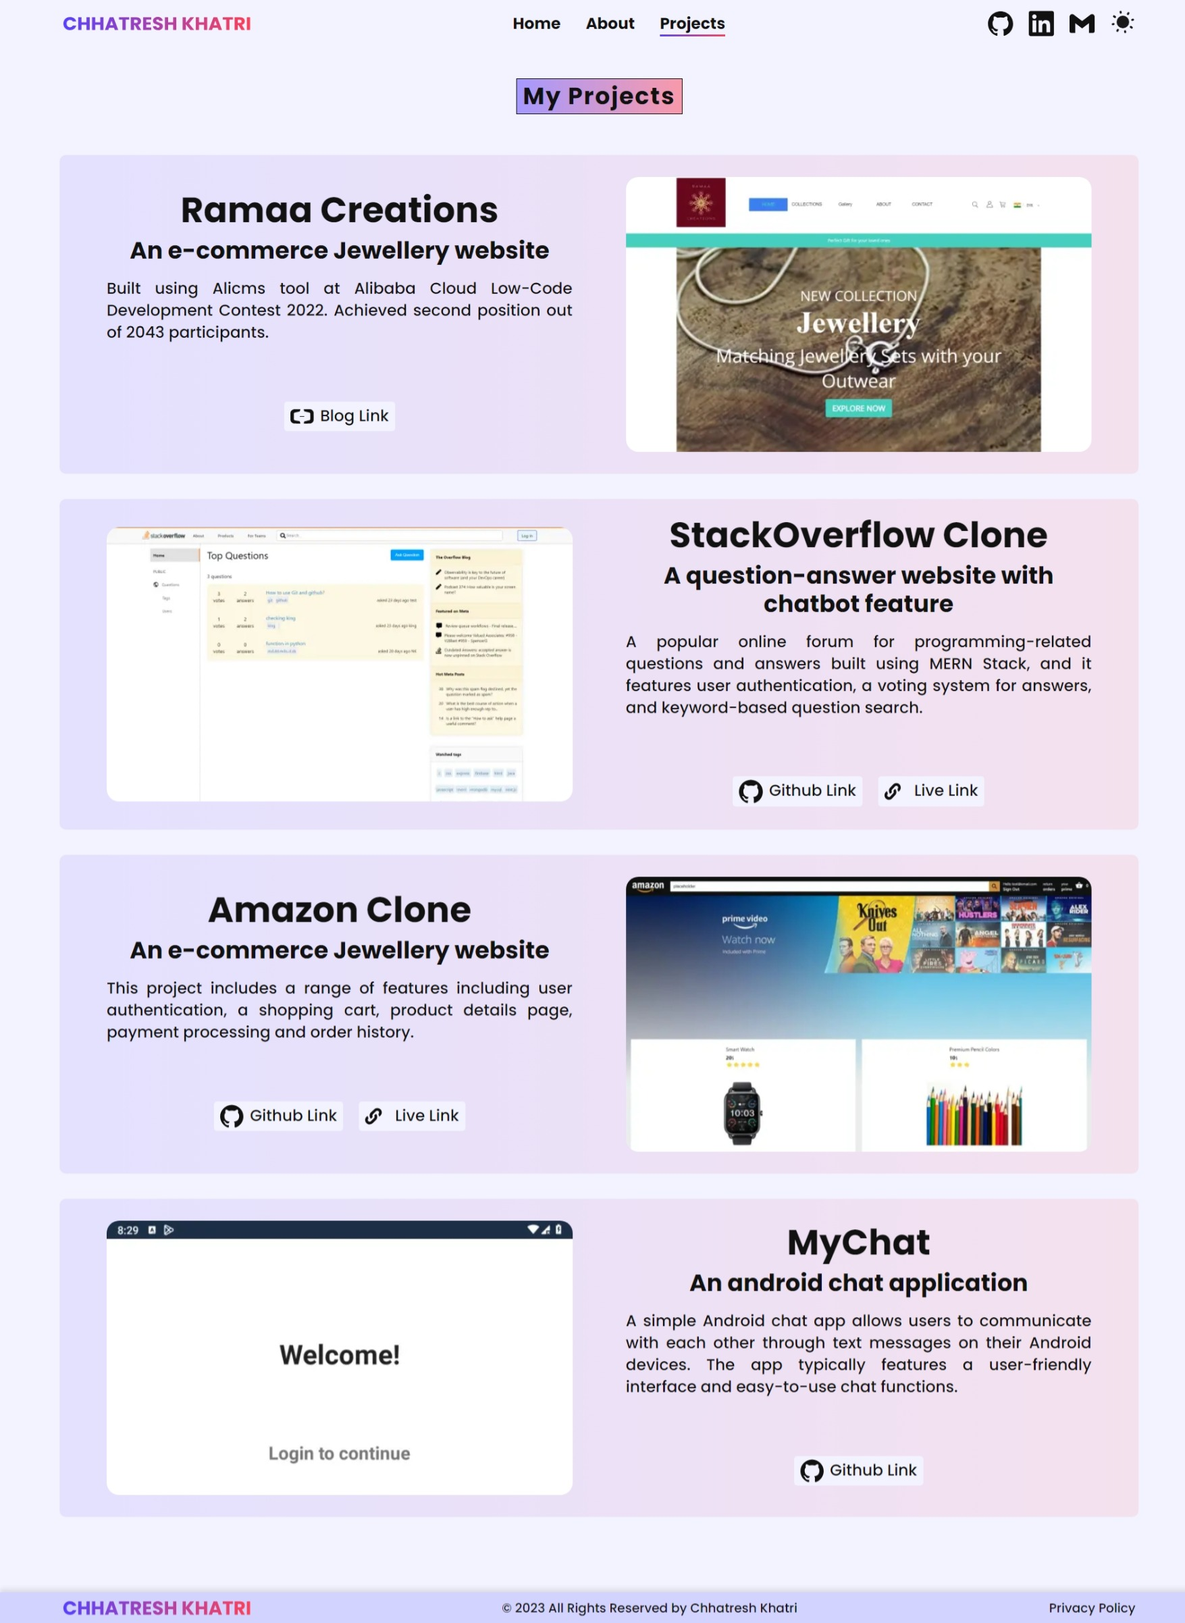
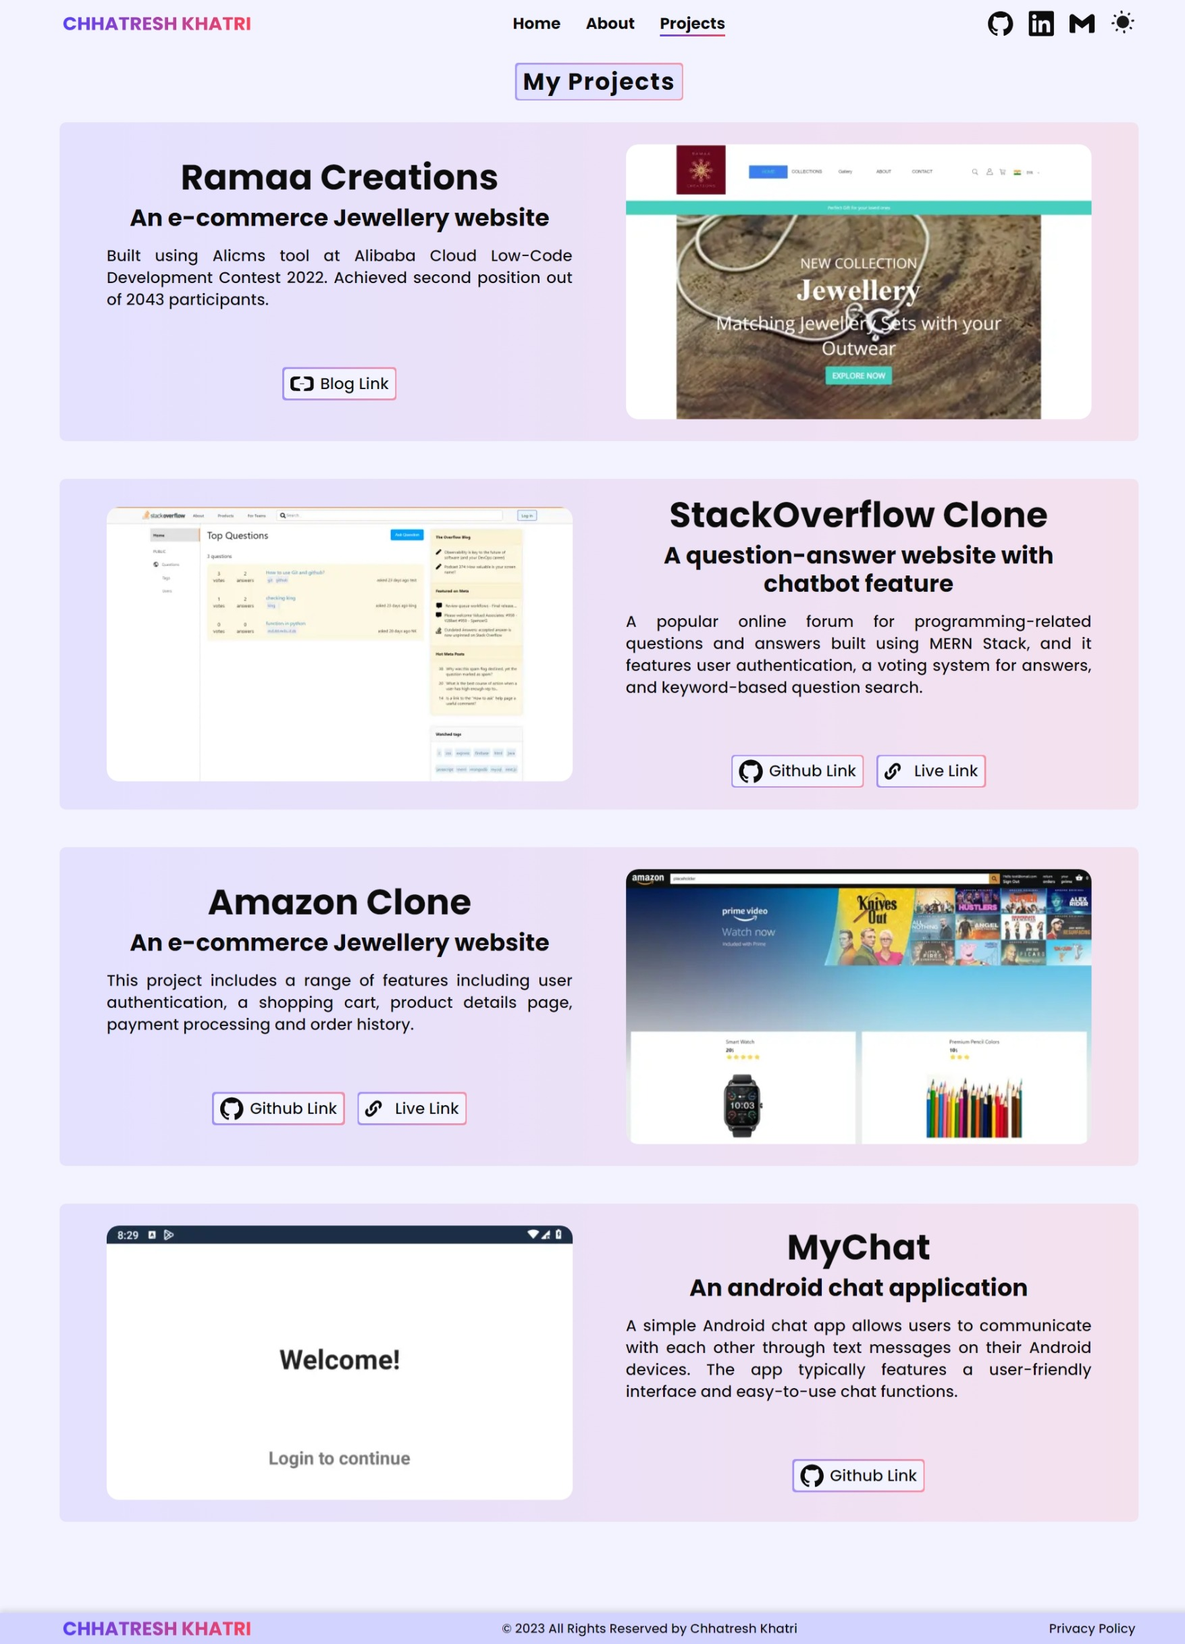
more ui tweaks

diff --git a/app/about/page.tsx b/app/about/page.tsx
@@ -49,20 +49,20 @@ export const metadata = {
 };
 const CustomImage = ({ SRC, title }: { SRC: string; title: string }) => {
   return <Image title={title} priority src={SRC} alt={title} className={`w-auto h-[35px] xs:h-[45px] m-1 xs:m-2 `} />;
-}
+};
 
 export default function Page() {
   return (
-    <main className="w-full h-full flex items-center flex-col justify-center font-medium px-2 xxs:px-3 xs:px-6 md:px-12 lg:px-20 py-25">
-      <button>
-        <h1 className="flex justify-center items-center font-semibold tracking-wider bg-gradient-to-r from-darkCk/50 to-lightCk/50 dark:from-darkCk/50 dark:to-lightCk/50 border-black dark:border-light border mb-4 text-xl xxs:text-2xl md:text-3xl p-1 md:px-2">
+    <main className="w-full h-full flex items-center flex-col justify-center font-medium px-2 xxs:px-3 xs:px-6 md:px-12 lg:px-20 py-20">
+      <button className="rounded mb-4 p-[2px] flex items-center justify-center bg-gradient-to-r from-darkCk/50 to-lightCk/50">
+        <h1 className="flex justify-center items-center font-semibold tracking-wider text-xl xxs:text-2xl md:text-3xl p-1 md:px-2 bg-contentBg dark:bg-darked rounded">
           About Me
         </h1>
       </button>
-      <div className="rounded-lg mt-10 bg-gradient-to-r p-1 from-darkCk/50 to-lightCk/50">
-      <div className="dark:bg-darker rounded-lg bg-contentBg text-justify p-3 xs:p-6 xs:px-10 py-6">
-        <h2 className={`text-2xl xxs:text-2xl xs:text-3xl md:text-4xl text-center`}>Description</h2>
-        <p className="text-lg xs:text-xl mt-4">
+      <div className="relative group rounded-lg text-justify p-3 xs:p-6 xs:px-10 py-6 mt-4">
+        <div className="absolute -inset-1 rounded-lg bg-gradient-to-r from-darkCk/50 to-lightCk/50 opacity-20 transition duration-500 group-hover:opacity-50"></div>
+        <h2 className={`relative text-2xl xxs:text-2xl xs:text-3xl md:text-4xl text-center`}>Description</h2>
+        <p className="relative text-lg xs:text-xl mt-4">
           Hi there! My name is Chhatresh Khatri and I&apos;m a Full Stack developer with a passion for building modern
           and user-friendly websites and applications. I have experience working with a range of Tech Stack to create
           clean and modular code that follows industry best practices. In addition to my technical skills, I also have a
@@ -72,65 +72,65 @@ export default function Page() {
           and create something extraordinary! Thanks for visiting my portfolio website!
         </p>
       </div>
-      </div>
-      <button>
-        <h2 className="flex justify-center items-center font-semibold tracking-wider bg-gradient-to-r from-darkCk/50 to-lightCk/50 dark:from-darkCk/50 dark:to-lightCk/50 border-black dark:border-light border mb-4 mt-10 text-xl xxs:text-2xl md:text-3xl p-1 md:px-2">
+      <button className="rounded mb-4 flex items-center justify-center bg-gradient-to-r from-darkCk/50 to-lightCk/50 mt-10 p-[2px]">
+        <h1 className="flex justify-center items-center font-semibold tracking-wider text-xl xxs:text-2xl md:text-3xl p-1 md:px-2 bg-contentBg dark:bg-darked rounded">
           Technology Stack
-        </h2>
+        </h1>
       </button>
-      <div className="rounded-lg mt-10 bg-gradient-to-r p-1 from-darkCk/50 to-lightCk/50">
-      <div className="w-full dark:bg-darker rounded-lg bg-contentBg p-3 xs:p-6 xs:px-10 py-6">
-        <h3 className={`text-2xl xxs:text-3xl md:text-4xl text-center mt-4`}>Languages</h3>
-        <div className="flex flex-wrap items-center justify-center mt-4">
-          <CustomImage SRC={C} title={`C`} />
-          <CustomImage SRC={Cpp} title={`C++`} />
-          <CustomImage SRC={Java} title={`Java`} />
-          <CustomImage SRC={MySql} title={`MySQL`} />
-          <CustomImage SRC={Html} title={`HTML5`} />
-          <CustomImage SRC={Css} title={`CSS3`} />
-          <CustomImage SRC={JavaScript} title={`JavaScript`} />
-          <CustomImage SRC={TypeScript} title={`TypeScript`} />
+      <div className="relative group rounded-lg mt-4">
+        <div className="absolute -inset-1 rounded-lg bg-gradient-to-r from-darkCk/50 to-lightCk/50 opacity-20 transition duration-500 group-hover:opacity-50"></div>
+        <div className="relative w-full p-3 xs:p-6 xs:px-10 py-6">
+          <h3 className={`text-2xl xxs:text-3xl md:text-4xl text-center mt-4`}>Languages</h3>
+          <div className="flex flex-wrap items-center justify-center mt-4">
+            <CustomImage SRC={C} title={`C`} />
+            <CustomImage SRC={Cpp} title={`C++`} />
+            <CustomImage SRC={Java} title={`Java`} />
+            <CustomImage SRC={MySql} title={`MySQL`} />
+            <CustomImage SRC={Html} title={`HTML5`} />
+            <CustomImage SRC={Css} title={`CSS3`} />
+            <CustomImage SRC={JavaScript} title={`JavaScript`} />
+            <CustomImage SRC={TypeScript} title={`TypeScript`} />
+          </div>
+          <h3 className="text-2xl xxs:text-3xl md:text-4xl text-center pt-4">Framework & Libraries</h3>
+          <div className="flex flex-wrap items-center justify-center mt-4">
+            <CustomImage SRC={Reactjs} title={`React.js`} />
+            <CustomImage SRC={Nextjs} title={`Next.js`} />
+            <CustomImage SRC={Expressjs} title={`Express.js`} />
+            <CustomImage SRC={Nodejs} title={`Node.js`} />
+            <CustomImage SRC={Bootstrap} title={`Bootstrap`} />
+            <CustomImage SRC={Tailwind} title={`TailwindCSS`} />
+            <CustomImage SRC={Axios} title={`Axios`} />
+            <CustomImage SRC={Redux} title={`Redux`} />
+            <CustomImage SRC={DotEnv} title={`DotENV`} />
+          </div>
+          <h3 className="text-2xl xxs:text-3xl md:text-4xl text-center pt-4">Tools & IDEs</h3>
+          <div className="flex flex-wrap items-center justify-center mt-4">
+            <CustomImage SRC={MongoDB} title={`MongoDB`} />
+            <CustomImage SRC={Nodemon} title={`Nodemon`} />
+            <CustomImage SRC={Netlify} title={`Netlify`} />
+            <CustomImage SRC={Render} title={`Render`} />
+            <CustomImage SRC={Back4App} title={`Back4App`} />
+            <CustomImage SRC={Git} title={`Git`} />
+            <CustomImage SRC={GitHub} title={`GitHub`} />
+            <CustomImage SRC={GitHubActions} title={`GitHub Actions`} />
+            <CustomImage SRC={GitHubPages} title={`GitHub Pages`} />
+            <CustomImage SRC={Vercel} title={`Vercel`} />
+            <CustomImage SRC={Firebase} title={`Firebase`} />
+            <CustomImage SRC={Canva} title={`Canva`} />
+            <CustomImage SRC={Gimp} title={`Gimp`} />
+            <CustomImage SRC={Postman} title={`Postman`} />
+            <CustomImage SRC={Cloudflare} title={`Cloudflare`} />
+            <CustomImage SRC={AlibabaCloud} title={`Alibaba Cloud`} />
+            <CustomImage SRC={GoogleCloud} title={`Google Cloud`} />
+            <CustomImage SRC={VSCode} title={`VS Code`} />
+          </div>
+          <h3 className="text-2xl xxs:text-3xl md:text-4xl text-center pt-4">OS</h3>
+          <div className="flex flex-wrap items-center justify-center mt-4">
+            <CustomImage SRC={Linux} title={`Linux`} />
+            <CustomImage SRC={Ubuntu} title={`Ubuntu`} />
+            <CustomImage SRC={Windows11} title={`Windows 11`} />
+          </div>
         </div>
-        <h3 className="text-2xl xxs:text-3xl md:text-4xl text-center pt-4">Framework & Libraries</h3>
-        <div className="flex flex-wrap items-center justify-center mt-4">
-          <CustomImage SRC={Reactjs} title={`React.js`} />
-          <CustomImage SRC={Nextjs} title={`Next.js`} />
-          <CustomImage SRC={Expressjs} title={`Express.js`} />
-          <CustomImage SRC={Nodejs} title={`Node.js`} />
-          <CustomImage SRC={Bootstrap} title={`Bootstrap`} />
-          <CustomImage SRC={Tailwind} title={`TailwindCSS`} />
-          <CustomImage SRC={Axios} title={`Axios`} />
-          <CustomImage SRC={Redux} title={`Redux`} />
-          <CustomImage SRC={DotEnv} title={`DotENV`} />
-        </div>
-        <h3 className="text-2xl xxs:text-3xl md:text-4xl text-center pt-4">Tools & IDEs</h3>
-        <div className="flex flex-wrap items-center justify-center mt-4">
-          <CustomImage SRC={MongoDB} title={`MongoDB`} />
-          <CustomImage SRC={Nodemon} title={`Nodemon`} />
-          <CustomImage SRC={Netlify} title={`Netlify`} />
-          <CustomImage SRC={Render} title={`Render`} />
-          <CustomImage SRC={Back4App} title={`Back4App`} />
-          <CustomImage SRC={Git} title={`Git`} />
-          <CustomImage SRC={GitHub} title={`GitHub`} />
-          <CustomImage SRC={GitHubActions} title={`GitHub Actions`} />
-          <CustomImage SRC={GitHubPages} title={`GitHub Pages`} />
-          <CustomImage SRC={Vercel} title={`Vercel`} />
-          <CustomImage SRC={Firebase} title={`Firebase`} />
-          <CustomImage SRC={Canva} title={`Canva`} />
-          <CustomImage SRC={Gimp} title={`Gimp`} />
-          <CustomImage SRC={Postman} title={`Postman`} />
-          <CustomImage SRC={Cloudflare} title={`Cloudflare`} />
-          <CustomImage SRC={AlibabaCloud} title={`Alibaba Cloud`} />
-          <CustomImage SRC={GoogleCloud} title={`Google Cloud`} />
-          <CustomImage SRC={VSCode} title={`VS Code`} />
-        </div>
-        <h3 className="text-2xl xxs:text-3xl md:text-4xl text-center pt-4">OS</h3>
-        <div className="flex flex-wrap items-center justify-center mt-4">
-          <CustomImage SRC={Linux} title={`Linux`} />
-          <CustomImage SRC={Ubuntu} title={`Ubuntu`} />
-          <CustomImage SRC={Windows11} title={`Windows 11`} />
-        </div>
-      </div>
       </div>
       <FaviconVisibilityChange />
     </main>

diff --git a/app/page.tsx b/app/page.tsx
@@ -8,66 +8,68 @@ import FaviconVisibilityChange from "./components/FaviconVisibilityChange";
 
 export default function Home() {
   return (
-      <main className="w-full h-full flex flex-col  font-medium px-2 xxs:px-3 xs:px-6 md:px-12 lg:px-20 py-25">
-        <div className="flex justify-center items-center">
-          <button className="flex justify-center items-center font-semibold tracking-wider bg-gradient-to-r from-darkCk/50 to-lightCk/50 dark:from-darkCk/50 dark:to-lightCk/50 border-black dark:border-light border mb-4 text-xl xxs:text-2xl md:text-3xl p-1 md:px-2">
+    <main className="w-full h-full flex flex-col  font-medium px-2 xxs:px-3 xs:px-6 md:px-12 lg:px-20 py-20">
+      <div className="flex justify-center items-center">
+        <button className="rounded mb-4 p-[2px] flex items-center justify-center bg-gradient-to-r from-darkCk/50 to-lightCk/50">
+          <span className="flex justify-center items-center font-semibold tracking-wider text-xl xxs:text-2xl md:text-3xl p-1 md:px-2 bg-contentBg dark:bg-darked rounded">
             Welcome to my Portfolio
-          </button>
-        </div>
-        <div className="grid grid-cols-1 w-full gap-1 lg:grid-cols-3">
-          <div className="relative order-2 lg:order-1 lg:col-span-2 flex justify-end items-center rounded-lg">
-            {/* Content for the first column */}
-            <div className="absolute -inset-1 rounded-lg bg-gradient-to-r from-darkCk/50 to-lightCk/50 md:bg-none"></div>
-            <div className="w-full h-full flex flex-col justify-center rounded-lg p-3 xs:p-6 lg:p-0 relative bg-light dark:bg-dark md:bg-light md:dark:bg-dark">
-              {/* Centered content in the first column */}
-              <h1 className="text-2xl xxs:text-2xl xs:text-3xl md:text-5xl lg:text-5xl xl:text-6xl font-semibold text-center">{`Hi! I'm Chhatresh Khatri`}</h1>
-              <h2 className="text-2xl xxs:text-2xl xs:3xl md:text-4xl xl:text-5xl font-semibold mt-4 text-center">
-                <Typewriter />
-              </h2>
-              <p className="text-lg xs:text-xl mt-4 text-justify">
-                B.Tech in Computer Science & Engineering with skills in problem solving and web development. An
-                enthusiastic, self-motivated professional with strong interpersonal and communication skills, I&apos;m
-                passionate about the latest tech trends. A quick learner and team player, I thrive on new opportunities
-                and challenges.
-              </p>
-              <div className="flex text-md xxs:text-xl justify-center items-center">
-                <button className="rounded mt-10 p-[2px] flex items-center justify-center bg-gradient-to-r from-darkCk/50 to-lightCk/50">
-                  <Link
-                    href={`https://drive.google.com/file/d/1i_gAK3PxDoMok4g5XEh0KTaD7Dm-JRR_/view?usp=sharing`}
-                    target="_blank"
-                    className="py-1 px-2 rounded flex justify-center items-center whitespace-nowrap bg-contentBg  dark:bg-darker"
-                  >
-                    <ResumeIcon className="mr-2" />
-                    Resume
-                  </Link>
-                </button>
-                <button className="ml-4 rounded mt-10 p-[2px] flex items-center justify-center bg-gradient-to-r from-darkCk/50 to-lightCk/50">
-                  <Link
-                    href={`https://social.chhatreshkhatri.com/`}
-                    target="_blank"
-                    className="py-1 px-2 rounded flex justify-center items-center whitespace-nowrap bg-contentBg dark:bg-darker"
-                  >
-                    <SocialIcon className="mr-2" />
-                    Social Links
-                  </Link>
-                </button>
-              </div>
-            </div>
-          </div>
-          <div className="order-1 lg:order-2 lg:col-span-1 flex justify-start items-center">
-            {/* Content for the second column */}
-            <div className="w-full h-full flex justify-center items-center pb-10">
-              {/* Centered content in the second column */}
-              <Image
-                src={pfp}
-                priority
-                alt="Chhatresh Khatri Banner"
-                className="w-[60%] xs:w-[50%] md:w-[35%] lg:w-[100%] xl:w-[80%] drop-shadow-3xl"
-              />
+          </span>
+        </button>
+      </div>
+      <div className="relative group grid grid-cols-1 w-full gap-1 lg:grid-cols-3 mt-4">
+          <div className="absolute -inset-1 rounded-lg bg-gradient-to-r from-darkCk/50 to-lightCk/50 opacity-20 transition duration-500 group-hover:opacity-50"></div>
+        <div className="relative order-2 lg:order-1 lg:col-span-2 flex justify-end items-center rounded-lg">
+          {/* Content for the first column */}
+          <div className="w-full h-full flex flex-col justify-center rounded-lg p-3 xs:p-6">
+            {/* Centered content in the first column */}
+            <h1 className="text-2xl xxs:text-2xl xs:text-3xl md:text-5xl lg:text-5xl xl:text-6xl font-semibold text-center">{`Hi! I'm Chhatresh Khatri`}</h1>
+            <h2 className="text-2xl xxs:text-2xl xs:3xl md:text-4xl xl:text-5xl font-semibold mt-4 text-center">
+              <Typewriter />
+            </h2>
+            <p className="text-lg xs:text-xl mt-4 text-justify">
+              B.Tech in Computer Science & Engineering with skills in problem solving and web development. An
+              enthusiastic, self-motivated professional with strong interpersonal and communication skills, I&apos;m
+              passionate about the latest tech trends. A quick learner and team player, I thrive on new opportunities
+              and challenges.
+            </p>
+            <div className="flex text-md xxs:text-xl justify-center items-center">
+              <button className="rounded mt-10 p-[2px] flex items-center justify-center bg-gradient-to-r from-darkCk/50 to-lightCk/50">
+                <Link
+                  href={`https://drive.google.com/file/d/1i_gAK3PxDoMok4g5XEh0KTaD7Dm-JRR_/view?usp=sharing`}
+                  target="_blank"
+                  className="py-1 px-2 rounded flex justify-center items-center whitespace-nowrap bg-lighter dark:bg-darker"
+                >
+                  <ResumeIcon className="mr-2" />
+                  Resume
+                </Link>
+              </button>
+              <button className="ml-4 rounded mt-10 p-[2px] flex items-center justify-center bg-gradient-to-r from-darkCk/50 to-lightCk/50">
+                <Link
+                  href={`https://social.chhatreshkhatri.com/`}
+                  target="_blank"
+                  className="py-1 px-2 rounded flex justify-center items-center whitespace-nowrap bg-lighter dark:bg-darker"
+                >
+                  <SocialIcon className="mr-2" />
+                  Social Links
+                </Link>
+              </button>
             </div>
           </div>
         </div>
-        <FaviconVisibilityChange />
-      </main>
+        <div className="order-1 lg:order-2 lg:col-span-1 flex justify-start items-center">
+          {/* Content for the second column */}
+          <div className="w-full h-full flex justify-center items-center pb-10">
+            {/* Centered content in the second column */}
+            <Image
+              src={pfp}
+              priority
+              alt="Chhatresh Khatri Banner"
+              className="w-[60%] xs:w-[50%] md:w-[35%] lg:w-[100%] xl:w-[80%] drop-shadow-3xl"
+            />
+          </div>
+        </div>
+      </div>
+      <FaviconVisibilityChange />
+    </main>
   );
 }

diff --git a/app/privacy-policy/page.tsx b/app/privacy-policy/page.tsx
@@ -15,13 +15,15 @@ export const metadata = {
 };
 const page = () => {
   return (
-    <main className="w-full h-full flex items-center flex-col justify-center font-medium px-4 md:px-12 lg:px-20 py-25">
-      <button>
-        <h1 className="flex justify-center items-center font-semibold tracking-wider bg-gradient-to-r from-darkCk/50 to-lightCk/50 dark:from-darkCk/50 dark:to-lightCk/50 border-black dark:border-light border mb-4 text-xl xxs:text-2xl md:text-3xl p-1 md:px-2">
+    <main className="w-full h-full flex items-center flex-col justify-center font-medium px-4 md:px-12 lg:px-20 py-20">
+      <button className="rounded mb-4 p-[2px] flex items-center justify-center bg-gradient-to-r from-darkCk/50 to-lightCk/50">
+        <h1 className="flex justify-center items-center font-semibold tracking-wider text-xl xxs:text-2xl md:text-3xl p-1 md:px-2 bg-contentBg dark:bg-darked rounded">
           Privacy Policy
         </h1>
       </button>
-      <div className="dark:bg-darked rounded-xl bg-slate-200 p-3 xs:p-6 xs:px-10 py-6 mt-6 space-y-2 ">
+      <div className="relative group rounded-lg p-3 xs:p-6 xs:px-10 py-6 mt-4 space-y-2">
+      <div className="absolute -inset-1 rounded-lg bg-gradient-to-r from-darkCk/50 to-lightCk/50 opacity-20 transition duration-500 group-hover:opacity-50"></div>
+        <div className="relative">
         <p className="text-xl  xl:text-2xl font-semibold">Privacy Policy for This Website and Its Subdomains</p>
         <p>Effective Date: July 1,2023</p>
         <p>
@@ -101,6 +103,7 @@ const page = () => {
         <p>This Privacy Policy applies to This Website and all its subdomains.</p>
         <p>If you do not agree with these policies, please discontinue use of this Website.</p>
         <p>Last updated: July 1, 2023</p>
+      </div>
       </div>
       <FaviconVisibilityChange />
     </main>

diff --git a/app/components/ProjectHolder.tsx b/app/components/ProjectHolder.tsx
@@ -29,7 +29,7 @@ const ProjectHolder: React.FC<CustomProps> = ({
   order,
 }) => {
   return (
-    <div className="group relative mt-10">
+    <div className="group relative mt-4 mb-10">
       <div className="absolute -inset-1 rounded-lg bg-gradient-to-r from-darkCk/50 to-lightCk/50 opacity-20 transition duration-500 group-hover:opacity-50"></div>
       <div className="relative grid grid-cols-1 w-full gap-1 lg:grid-cols-2 rounded-xl p-3 xs:p-6">
         <div className={`${order == "odd" ? "" : "lg:order-2"}`}>
@@ -45,7 +45,7 @@ const ProjectHolder: React.FC<CustomProps> = ({
                   <Link
                     href={link1}
                     target="_blank"
-                    className="py-1 px-2 rounded flex justify-center items-center whitespace-nowrap bg-light dark:bg-darker"
+                    className="py-1 px-2 rounded flex justify-center items-center whitespace-nowrap bg-lighter dark:bg-darker"
                   >
                     {link1Icon}
                     {link1Type}
@@ -59,7 +59,7 @@ const ProjectHolder: React.FC<CustomProps> = ({
                   <Link
                     href={link2}
                     target="_blank"
-                    className="py-1 px-2 rounded flex justify-center items-center whitespace-nowrap bg-light dark:bg-darker"
+                    className="py-1 px-2 rounded flex justify-center items-center whitespace-nowrap bg-lighter dark:bg-darker"
                   >
                     {link2Icon}
                     {link2Type}

diff --git a/app/projects/page.tsx b/app/projects/page.tsx
@@ -16,9 +16,9 @@ export const metadata = {
 
 export default function Projects() {
   return (
-    <main className="w-full h-full flex items-center flex-col justify-center font-medium px-2 xxs:px-3 xs:px-6 md:px-12 lg:px-20 py-25">
-      <button>
-        <h1 className="flex justify-center items-center font-semibold tracking-wider bg-gradient-to-r from-darkCk/50 to-lightCk/50 dark:from-darkCk/50 dark:to-lightCk/50 border-black dark:border-light border mb-4 text-xl xxs:text-2xl md:text-3xl p-1 md:px-2">
+    <main className="w-full h-full flex items-center flex-col justify-center font-medium px-2 xxs:px-3 xs:px-6 md:px-12 lg:px-20 py-20">
+      <button className="rounded mb-4 p-[2px] flex items-center justify-center bg-gradient-to-r from-darkCk/50 to-lightCk/50">
+        <h1 className="flex justify-center items-center font-semibold tracking-wider text-xl xxs:text-2xl md:text-3xl p-1 md:px-2 bg-contentBg dark:bg-darked rounded">
           My Projects
         </h1>
       </button>

diff --git a/tailwind.config.js b/tailwind.config.js
@@ -32,11 +32,11 @@ module.exports = {
         light: "#f3f3FF",
         darkCk: "#5740FF",
         lightCk: "#FF4057",
-        darker: "#0c0c0c",
-        darked: "#111111",
+        darked: "#0c0c0c",
         contentBg: "#E3E3FF",
         navbarBg: "#D3D3FF",
-        footerBg: "#c3c3ff",
+        darker: "#101010",
+        lighter: "#f3f3ff",
       },
 
       dropShadow: {
